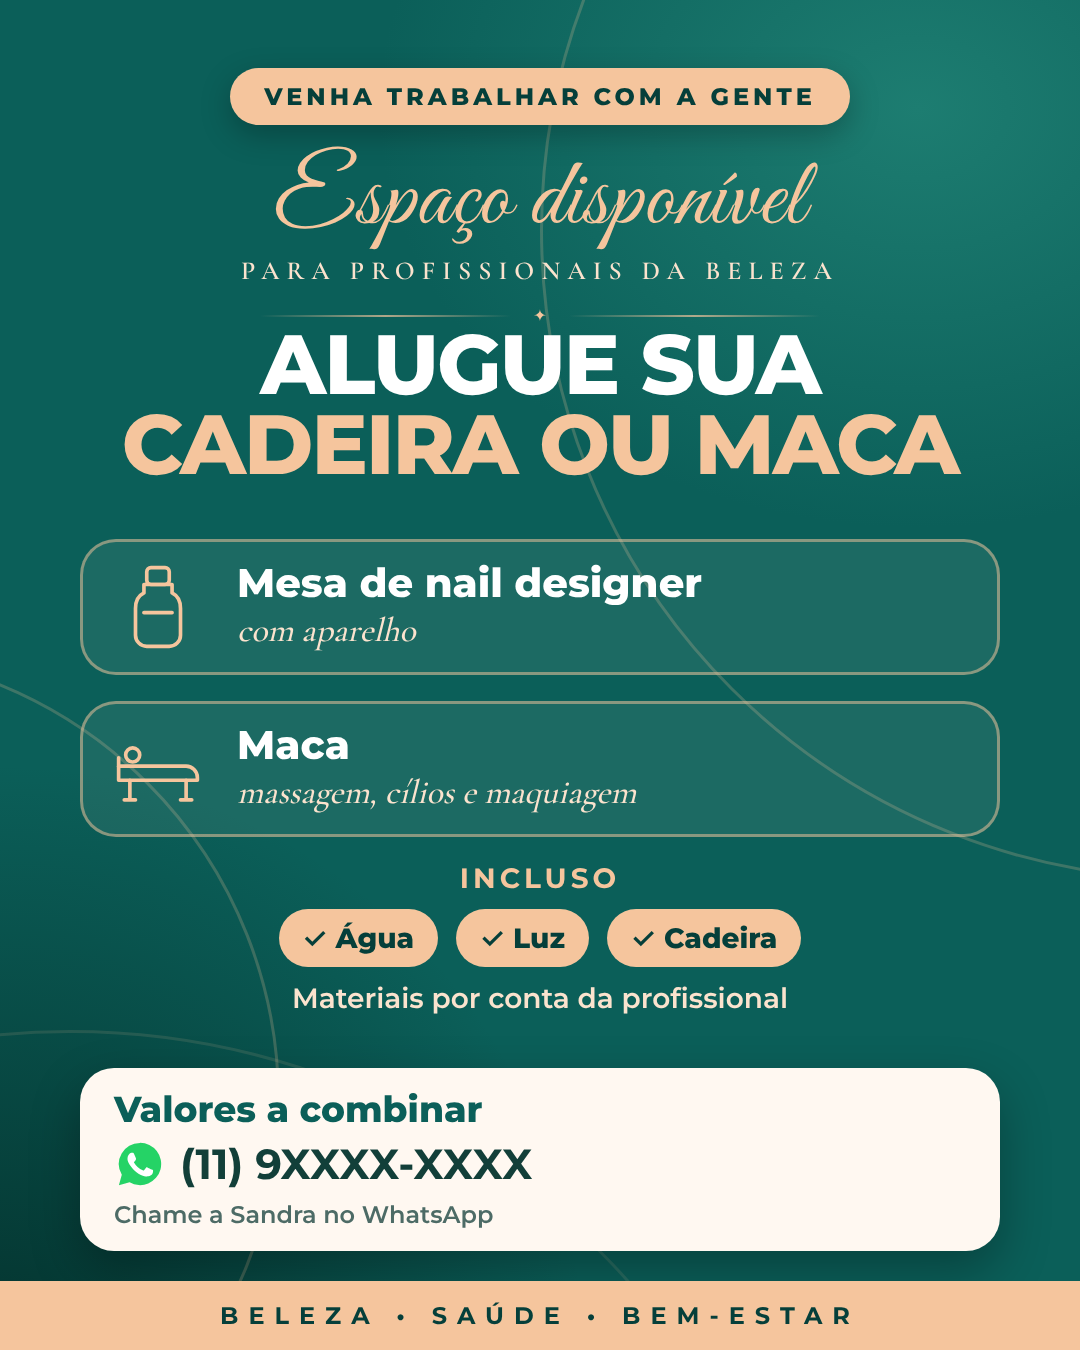
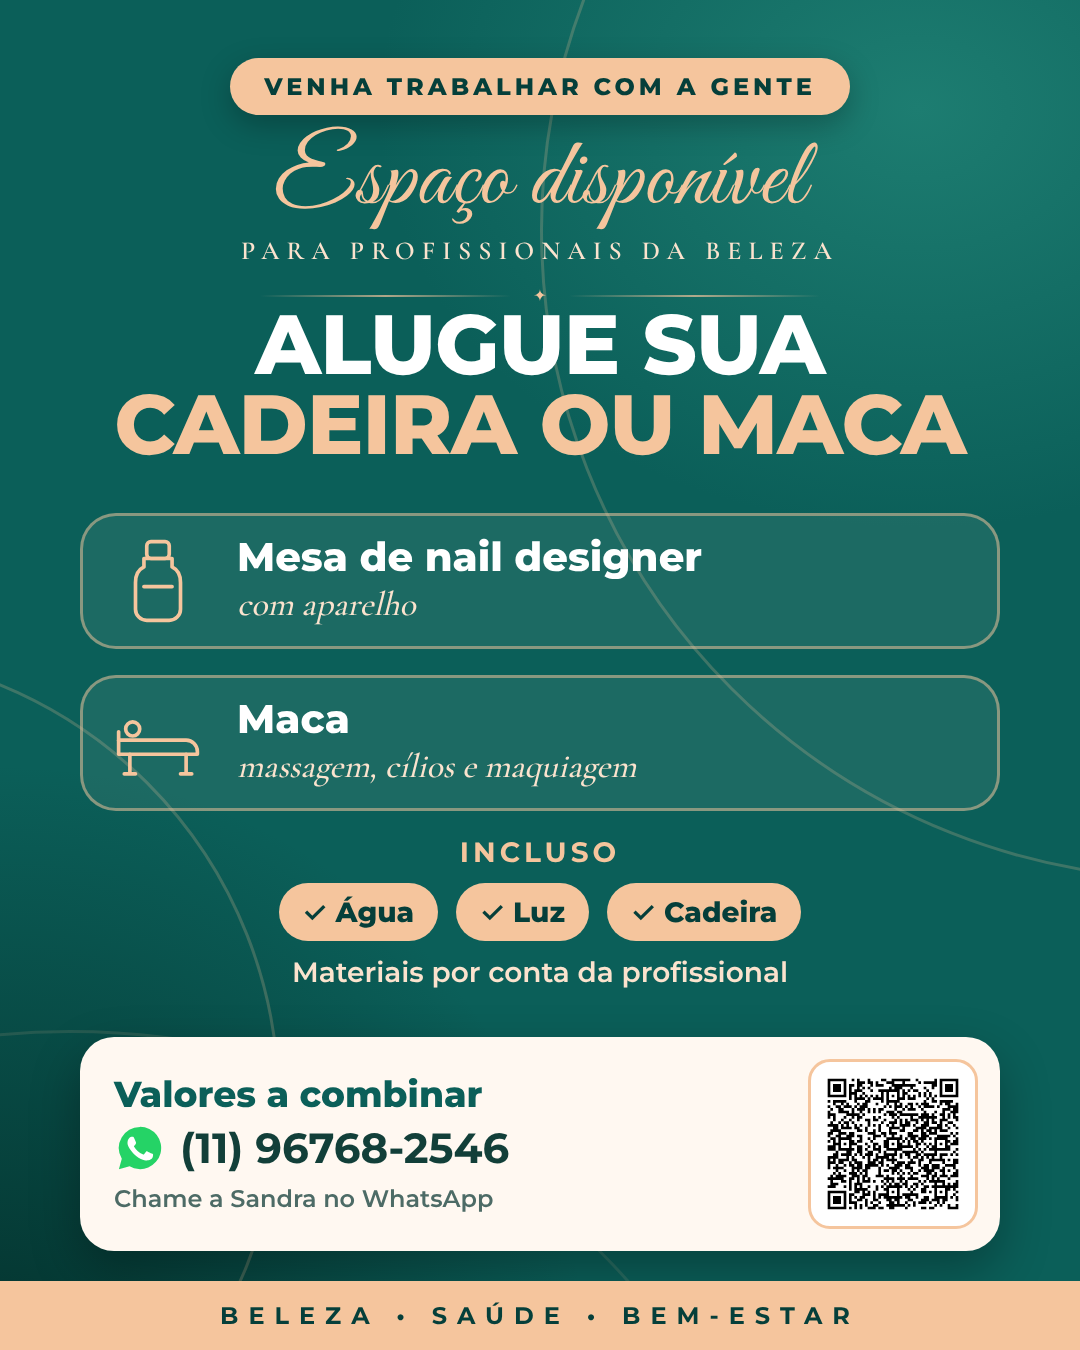
Agenda à prova de erro de horário
Banco (supabase/schema.sql):
- horário que passou ou começa em menos de 1h some do site (fuso de São Paulo)
- reserva atômica, com WhatsApp da cliente e limite de 2 horários por telefone
- tabela protegida: só a Amanda lê nomes e telefones
- dados coerentes (livre nunca guarda dados de cliente)

Painel (admin/):
- ações só valem se o horário ainda estiver como ela viu (não sobrescreve pedido novo)
- atualiza sozinho a cada 30 s e ao voltar para a tela
- mostra há quanto tempo veio o pedido e botão para chamar a cliente no WhatsApp
- data de hoje sempre em horário de Brasília, não no relógio do celular
- só remove horário livre

Site: não depende do relógio do celular; pede o WhatsApp da cliente.
Folder de aluguel com o WhatsApp da Sandra.

Claude-Session: https://claude.ai/code/session_01XzVqx7ahf59UE6agffiRQk

Changed region(s): [[0.0611, 0.0311, 0.9472, 0.9333], [0.0611, 0.4044, 0.0917, 0.4356]]

diff --git a/admin/index.html b/admin/index.html
@@ -146,16 +146,23 @@ input:focus{border-color:var(--teal)}
       .then(function(){$('bLogin').disabled=false})};
   $('bSair').onclick=function(){save(null);rows=[];sel=null;show()};
 
+  function hojeSP(){return new Date().toLocaleDateString('en-CA',{timeZone:'America/Sao_Paulo'})}
+  var ocupado=false,semNet=false;
   function carregar(){
-    var hoje=new Date();hoje=hoje.getFullYear()+'-'+dd(hoje.getMonth()+1)+'-'+dd(hoje.getDate());
-    api('GET','horarios?select=*&data=gte.'+hoje+'&order=data,hora').then(function(j){rows=j||[];say('mApp','');desenhar()})
-      .catch(function(){say('mApp','Não consegui carregar a agenda. Confira a internet e tente de novo.')});
+    return api('GET','horarios?select=*&data=gte.'+hojeSP()+'&order=data,hora').then(function(j){rows=j||[];if(semNet){semNet=false;say('mApp','')}desenhar()})
+      .catch(function(e){if(e!==0){semNet=true;say('mApp','Sem conexão. O que você vê pode estar desatualizado. Confira a internet.')}});
   }
+  function idade(iso){if(!iso)return '';var m=Math.max(0,Math.round((Date.now()-new Date(iso).getTime())/60000));
+    return m<1?'agora':m<60?'há '+m+' min':m<1440?'há '+Math.floor(m/60)+' h':'há '+Math.floor(m/1440)+' d'}
+  function zap(r){return r.telefone?'<a class="btn ghost" style="text-decoration:none" target="_blank" rel="noopener" href="https://wa.me/55'+r.telefone+'">Chamar no WhatsApp</a>':''}
+  // atualiza sozinho: a cada 30 s e quando ela volta para a tela
+  setInterval(function(){if(sess&&!document.hidden&&!ocupado)carregar()},30000);
+  document.addEventListener('visibilitychange',function(){if(sess&&!document.hidden)carregar()});
 
   function desenhar(){
     var ped=rows.filter(function(r){return r.status==='pedido'});
-    var n=$('nPed');n.hidden=!ped.length;n.textContent=ped.length;
-    $('pedidos').innerHTML=ped.length?ped.map(function(r){return '<div class="card pedido" style="margin-bottom:10px"><b>'+esc(r.nome)+'</b><div class="qd">'+esc(r.servico)+'<br>'+dia(r.data)+' às '+hh(r.hora)+'</div>'+
+    var n=$('nPed');n.hidden=!ped.length;n.textContent=ped.length;document.title=(ped.length?'('+ped.length+') ':'')+'Painel da Amanda';
+    $('pedidos').innerHTML=ped.length?ped.map(function(r){return '<div class="card pedido" style="margin-bottom:10px"><b>'+esc(r.nome)+'</b><div class="qd">'+esc(r.servico)+'<br>'+dia(r.data)+' às '+hh(r.hora)+'<br>Pedido '+idade(r.pedido_em)+'</div>'+zap(r)+
       '<div class="row"><button class="btn ok" data-a="confirmar" data-id="'+r.id+'" type="button">Confirmar</button><button class="btn bad" data-a="liberar" data-id="'+r.id+'" type="button">Recusar</button></div></div>'}).join(''):'<p class="vazio">Nenhum pedido por enquanto.</p>';
 
     var por={},ordem=[];rows.forEach(function(r){if(!por[r.data]){por[r.data]=[];ordem.push(r.data)}por[r.data].push(r)});
@@ -168,39 +175,53 @@ input:focus{border-color:var(--teal)}
     var box=$('acoes'),r=rows.filter(function(x){return x.id===sel})[0];
     if(!r){box.hidden=true;return}
     var h='<p>'+dia(r.data)+' às '+hh(r.hora)+'</p>';
-    if(r.status==='pedido')h+='<div>'+esc(r.nome)+' · '+esc(r.servico)+'</div><button class="btn ok" data-a="confirmar" data-id="'+r.id+'" type="button">Confirmar</button><button class="btn bad" data-a="liberar" data-id="'+r.id+'" type="button">Recusar e liberar</button>';
-    if(r.status==='confirmado')h+='<div>'+esc(r.nome)+' · '+esc(r.servico)+'</div><button class="btn bad" data-a="liberar" data-id="'+r.id+'" type="button">Cancelar e liberar horário</button>';
+    if(r.status==='pedido')h+='<div>'+esc(r.nome)+' · '+esc(r.servico)+'</div>'+zap(r)+'<button class="btn ok" data-a="confirmar" data-id="'+r.id+'" type="button">Confirmar</button><button class="btn bad" data-a="liberar" data-id="'+r.id+'" type="button">Recusar e liberar</button>';
+    if(r.status==='confirmado')h+='<div>'+esc(r.nome)+' · '+esc(r.servico)+'</div>'+zap(r)+'<button class="btn bad" data-a="liberar" data-id="'+r.id+'" type="button">Cancelar e liberar horário</button>';
     if(r.status==='livre')h+='<button class="btn ghost" data-a="ocupar" data-id="'+r.id+'" type="button">Marcar como ocupado (marquei por fora)</button>';
-    h+='<button class="btn ghost" data-a="remover" data-id="'+r.id+'" type="button">Remover este horário</button>';
+    if(r.status==='livre')h+='<button class="btn ghost" data-a="remover" data-id="'+r.id+'" type="button">Remover este horário</button>';
+    else h+='<p style="font-weight:500;font-size:14px;color:var(--muted)">Para remover este horário, primeiro cancele e libere.</p>';
     box.innerHTML=h;box.hidden=false;
   }
 
-  function mudar(id,campos){
-    return api('PATCH','horarios?id=eq.'+id,campos,{Prefer:'return=minimal'}).then(carregar).catch(function(e){if(e!==0)say('mApp','Não deu certo. Tente de novo.')});
+  var TXT_MUDOU='Esse horário mudou enquanto você olhava (talvez uma cliente tenha pedido agora). Atualizei a tela, confira e tente de novo.';
+  // Só altera se o horário ainda estiver no estado em que ela viu. Se mudou, não faz nada.
+  function mudar(id,esperado,campos){
+    return api('PATCH','horarios?id=eq.'+id+'&status=in.('+esperado+')',campos,{Prefer:'return=representation'})
+      .then(function(j){if(!j||!j.length)say('mApp',TXT_MUDOU)}).then(carregar)
+      .catch(function(e){if(e!==0){say('mApp','Não deu certo. Confira a internet e tente de novo.');return carregar()}});
+  }
+  function remover(id){
+    return api('DELETE','horarios?id=eq.'+id+'&status=eq.livre',null,{Prefer:'return=representation'})
+      .then(function(j){if(!j||!j.length)say('mApp',TXT_MUDOU)}).then(carregar)
+      .catch(function(e){if(e!==0){say('mApp','Não deu certo. Confira a internet e tente de novo.');return carregar()}});
   }
   document.addEventListener('click',function(e){
-    var b=e.target.closest('button[data-a],button.s');if(!b)return;
+    var b=e.target.closest('button[data-a],button.s');if(!b||ocupado)return;
     var id=b.getAttribute('data-id'),a=b.getAttribute('data-a');
     if(!a){sel=(sel===id?null:id);desenhar();return}
-    b.disabled=true;
-    if(a==='confirmar')mudar(id,{status:'confirmado'});
-    if(a==='liberar'){sel=null;mudar(id,{status:'livre',nome:null,servico:null,pedido_em:null})}
-    if(a==='ocupar')mudar(id,{status:'confirmado',nome:'Marcado por fora',servico:'Manual'});
-    if(a==='remover'){sel=null;api('DELETE','horarios?id=eq.'+id,null,{Prefer:'return=minimal'}).then(carregar).catch(function(e){if(e!==0)say('mApp','Não deu certo. Tente de novo.')})}
+    ocupado=true;[].forEach.call(document.querySelectorAll('button[data-a]'),function(x){x.disabled=true});
+    var fim=function(){ocupado=false};
+    if(a==='confirmar')mudar(id,'pedido',{status:'confirmado'}).then(fim);
+    if(a==='liberar'){sel=null;mudar(id,'pedido,confirmado',{status:'livre',nome:null,servico:null,telefone:null,pedido_em:null}).then(fim)}
+    if(a==='ocupar')mudar(id,'livre',{status:'confirmado',nome:'Marcado por fora',servico:'Manual',pedido_em:new Date().toISOString()}).then(fim);
+    if(a==='remover'){sel=null;remover(id).then(fim)}
   });
 
   // abrir horários
   $('horas').innerHTML=HORAS.map(function(h){return '<button class="chip" type="button" data-h="'+h+'" aria-pressed="'+(!!escolhidas[h])+'">'+hh(h)+'</button>'}).join('');
   $('horas').onclick=function(e){var b=e.target.closest('.chip');if(!b)return;var h=b.getAttribute('data-h');escolhidas[h]=!escolhidas[h];b.setAttribute('aria-pressed',!!escolhidas[h])};
-  var hj=new Date();$('novaData').min=hj.getFullYear()+'-'+dd(hj.getMonth()+1)+'-'+dd(hj.getDate());
+  $('novaData').min=hojeSP();
   $('bAbrir').onclick=function(){
     var d=$('novaData').value,hs=HORAS.filter(function(h){return escolhidas[h]});
     if(!d){say('mApp','Escolha o dia primeiro.');window.scrollTo(0,0);return}
     if(!hs.length){say('mApp','Escolha pelo menos um horário.');return}
     $('bAbrir').disabled=true;
-    api('POST','horarios?on_conflict=data,hora',hs.map(function(h){return {data:d,hora:h}}),{Prefer:'resolution=ignore-duplicates,return=minimal'})
-      .then(function(){say('mApp',dia(d)+' aberto com '+hs.length+' horário'+(hs.length>1?'s':'')+'.',true);return carregar()})
-      .catch(function(e){if(e!==0)say('mApp','Não deu certo. Tente de novo.')})
+    api('POST','horarios?on_conflict=data,hora',hs.map(function(h){return {data:d,hora:h}}),{Prefer:'resolution=ignore-duplicates,return=representation'})
+      .then(function(j){var n=(j||[]).length,f=hs.length-n;
+        if(!n)say('mApp','Nenhum horário novo. Esses horários já estavam abertos ou já passaram.');
+        else say('mApp',dia(d)+': '+n+' horário'+(n>1?'s':'')+' aberto'+(n>1?'s':'')+(f?' ('+f+' já existia'+(f>1?'m':'')+' ou já passou'+(f>1?'ram':'')+')':'')+'.',true);
+        return carregar()})
+      .catch(function(e){if(e!==0)say('mApp','Não consegui abrir. Confira se o dia e os horários ainda não passaram.')})
       .then(function(){$('bAbrir').disabled=false});
   };
 

diff --git a/index.html b/index.html
@@ -155,7 +155,11 @@ footer .links a{font-weight:700;text-decoration:none;color:var(--cream)}
   </div>
   <div class="step">
     <label class="step-t" for="nome"><span class="n">4</span>Seu nome</label>
-    <input type="text" id="nome" autocomplete="given-name" placeholder="Como você se chama?" maxlength="60">
+    <input type="text" id="nome" autocomplete="name" placeholder="Como você se chama?" maxlength="60">
+  </div>
+  <div class="step" id="stTel">
+    <label class="step-t" for="tel"><span class="n">5</span>Seu WhatsApp</label>
+    <input type="text" id="tel" inputmode="tel" autocomplete="tel-national" placeholder="(11) 90000-0000" maxlength="16">
   </div>
 
   <div class="resumo" id="resumo" aria-live="polite"></div>
@@ -224,6 +228,7 @@ footer .links a{font-weight:700;text-decoration:none;color:var(--cream)}
 <script>
 (function(){
   var A=window.AGENDA, C=window.SUPABASE||{}, live=!!(C.url&&C.anonKey);
+  var GO_HTML=document.getElementById('go').innerHTML;
   var S={servico:null,dia:null,hora:null}, slots=[], falhou=false, aviso='';
   var SEM=['Domingo','Segunda','Terça','Quarta','Quinta','Sexta','Sábado'];
   var MES=['jan','fev','mar','abr','mai','jun','jul','ago','set','out','nov','dez'];
@@ -240,7 +245,7 @@ footer .links a{font-weight:700;text-decoration:none;color:var(--cream)}
     return fetch(C.url+'/rest/v1/horarios_publicos?select=id,data,hora,status&order=data,hora',{headers:{apikey:C.anonKey,Authorization:'Bearer '+C.anonKey}})
       .then(function(r){if(!r.ok)throw 0;return r.json()}).then(function(j){slots=j;falhou=false}).catch(function(){falhou=true});
   }
-  function dias(){var m={},out=[];slots.forEach(function(x){if(parse(x.data)<hoje)return;if(!m[x.data]){m[x.data]=[];out.push(x.data)}m[x.data].push(x)});
+  function dias(){var m={},out=[];slots.forEach(function(x){if(!live&&parse(x.data)<hoje)return;if(!m[x.data]){m[x.data]=[];out.push(x.data)}m[x.data].push(x)});
     return out.map(function(d){return {data:d,slots:m[d]}})}
 
   function opt(a,b,pill,on,dis){var el=document.createElement('button');el.type='button';el.className='opt';el.setAttribute('aria-pressed',on?'true':'false');if(dis)el.disabled=true;
@@ -262,7 +267,7 @@ footer .links a{font-weight:700;text-decoration:none;color:var(--cream)}
       if(d)d.slots.forEach(function(q){var el=opt(hh(q.hora),'','',S.hora===q.id,q.status!=='livre');el.onclick=function(){S.hora=q.id;render()};o.appendChild(el)})}
     else o.innerHTML='<p class="empty">Escolha um dia primeiro.</p>';
 
-    var ok=S.servico&&S.dia&&S.hora&&$('nome').value.trim().length>1;
+    var ok=S.servico&&S.dia&&S.hora&&$('nome').value.trim().length>1&&(!live||telOk());
     $('go').disabled=!ok;
     var r=$('resumo'),sl=S.hora&&slots.filter(function(q){return q.id===S.hora})[0];
     if(S.servico&&S.dia&&sl){var sv=A.servicos.filter(function(s){return s.id===S.servico})[0],x=parse(S.dia);
@@ -271,21 +276,33 @@ footer .links a{font-weight:700;text-decoration:none;color:var(--cream)}
     else r.className='resumo';
   }
 
+  function digitos(){var t=$('tel').value.replace(/\D/g,'');if(t.indexOf('55')===0&&(t.length===12||t.length===13))t=t.slice(2);return t}
+  function telOk(){var t=digitos();return t.length===10||t.length===11}
+  $('stTel').hidden=!live;
   $('nome').oninput=function(){aviso='';render()};
+  $('tel').oninput=function(){aviso='';render()};
   $('go').onclick=function(){
     var sv=A.servicos.filter(function(s){return s.id===S.servico})[0],x=parse(S.dia),sl=slots.filter(function(q){return q.id===S.hora})[0];
     var nome=$('nome').value.trim();
     var msg='Olá Amanda! Quero agendar:\n\n• '+sv.nome+'\n• '+SEM[x.getDay()]+', '+curta(S.dia)+' às '+hh(sl.hora)+'\n\nMeu nome é '+nome+'.';
     var abrir=function(){location.href='https://wa.me/'+A.whatsapp+'?text='+encodeURIComponent(msg)};
     if(!live){abrir();return}
-    $('go').disabled=true;
+    $('go').disabled=true;$('go').textContent='Reservando…';
+    var volta=function(){$('go').innerHTML=GO_HTML;render()};
     fetch(C.url+'/rest/v1/rpc/pedir_horario',{method:'POST',headers:{apikey:C.anonKey,Authorization:'Bearer '+C.anonKey,'Content-Type':'application/json'},
-      body:JSON.stringify({p_id:sl.id,p_servico:sv.nome,p_nome:nome})})
+      body:JSON.stringify({p_id:sl.id,p_servico:sv.nome,p_nome:nome,p_telefone:digitos()})})
       .then(function(r){if(!r.ok)throw 0;return r.json()})
-      .then(function(ok){
-        if(ok){abrir();return}
-        S.hora=null;aviso='<b>Esse horário acabou de ser pego.</b><br>Escolha outro, por favor.';return load().then(render)})
-      .catch(function(){aviso='<b>Não consegui reservar agora.</b><br>Toque em “Fale comigo” abaixo e chame a Amanda.';render()});
+      .then(function(res){
+        if(res==='ok'){
+          var url='https://wa.me/'+A.whatsapp+'?text='+encodeURIComponent(msg);
+          $('resumo').innerHTML='<b>Horário reservado!</b><br>Agora envie a mensagem no WhatsApp para a Amanda confirmar.<br><a href="'+url+'" style="color:#F5C59D;font-weight:800">Abrir o WhatsApp</a>';
+          $('resumo').className='resumo on';$('go').innerHTML=GO_HTML;$('go').disabled=true;abrir();return}
+        S.hora=null;
+        aviso=res==='limite'?'<b>Você já tem 2 horários reservados.</b><br>Para marcar mais, fale com a Amanda no WhatsApp.':
+              res==='dados'?'<b>Confira seu nome e WhatsApp.</b><br>Use o número com DDD.':
+              '<b>Esse horário acabou de ser pego.</b><br>Escolha outro, por favor.';
+        return load().then(function(){$('go').innerHTML=GO_HTML;render()})})
+      .catch(function(){aviso='<b>Não consegui reservar agora.</b><br>Toque em “Fale comigo” abaixo e chame a Amanda.';volta()});
   };
   var hi=encodeURIComponent('Olá Amanda! Vim pelo site e queria tirar uma dúvida.');
   [].forEach.call(document.querySelectorAll('.js-wa'),function(a){a.href='https://wa.me/'+A.whatsapp+'?text='+hi});

diff --git a/folders/folder.html b/folders/folder.html
@@ -96,6 +96,9 @@ body.feed [data-v="aluguel"] .huge{font-size:84px!important}
 body.feed [data-v="aluguel"] .pill{font-size:24px!important}
 body.feed [data-v="agenda"] .huge{font-size:84px!important}body.feed .card .d{font-size:96px}
 body.feed .kicker{letter-spacing:4px}
+body:not(.feed) [data-v="aluguel"] .item{padding:22px 40px}
+body:not(.feed) [data-v="aluguel"] .item svg{width:100px;height:100px}
+body:not(.feed) [data-v="aluguel"] .qr{width:190px;height:190px}
 [hidden]{display:none!important}
 </style>
 </head>
@@ -164,14 +167,14 @@ body.feed .kicker{letter-spacing:4px}
 
 <!-- Folder 3: aluguel de cadeira/maca -->
 <main class="page" data-v="aluguel" hidden>
-  <div class="gap-m"></div>
+  <div class="gap-s"></div>
   <span class="pill" style="font-size:32px;letter-spacing:4px">VENHA TRABALHAR COM A GENTE</span>
-  <div class="gap-m"></div>
+  <div class="gap-s"></div>
   <div class="name" style="font-size:124px;white-space:nowrap">Espaço disponível</div>
   <div class="role">para profissionais da beleza</div>
   <div class="sep">✦</div>
   <div class="gap-l hide-feed"></div>
-  <h1 class="huge" style="font-size:104px">Alugue sua<br><em>cadeira ou maca</em></h1>
+  <h1 class="huge" style="font-size:92px;letter-spacing:-1px">Alugue sua<br><em>cadeira ou maca</em></h1>
   <div class="spacer"></div>
   <div class="items">
     <div class="item">
@@ -193,10 +196,10 @@ body.feed .kicker{letter-spacing:4px}
   <div class="cta">
     <div style="flex:1">
       <div class="t1">Valores a combinar</div>
-      <div class="t2"><svg class="wa" viewBox="0 0 32 32"><path fill="#25D366" d="M16 3a13 13 0 0 0-11.2 19.6L3 29l6.6-1.7A13 13 0 1 0 16 3z"/><path fill="#fff" d="M23.2 19.4c-.4-.2-2.3-1.1-2.6-1.3-.4-.1-.6-.2-.9.2l-1.2 1.5c-.2.3-.4.3-.8.1a10.6 10.6 0 0 1-5.3-4.6c-.4-.7.4-.6 1.1-2.1.1-.3 0-.5 0-.7l-1.2-2.8c-.3-.7-.6-.6-.9-.6h-.7c-.3 0-.7.1-1 .5-.4.4-1.4 1.3-1.4 3.2s1.4 3.7 1.6 4c.2.2 2.7 4.2 6.6 5.9 2.5 1 3.4 1.1 4.7.9.8-.1 2.3-.9 2.6-1.9.3-.9.3-1.7.2-1.9-.1-.2-.4-.3-.8-.4z"/></svg><span id="sandra-tel">(11) 9XXXX-XXXX</span></div>
+      <div class="t2"><svg class="wa" viewBox="0 0 32 32"><path fill="#25D366" d="M16 3a13 13 0 0 0-11.2 19.6L3 29l6.6-1.7A13 13 0 1 0 16 3z"/><path fill="#fff" d="M23.2 19.4c-.4-.2-2.3-1.1-2.6-1.3-.4-.1-.6-.2-.9.2l-1.2 1.5c-.2.3-.4.3-.8.1a10.6 10.6 0 0 1-5.3-4.6c-.4-.7.4-.6 1.1-2.1.1-.3 0-.5 0-.7l-1.2-2.8c-.3-.7-.6-.6-.9-.6h-.7c-.3 0-.7.1-1 .5-.4.4-1.4 1.3-1.4 3.2s1.4 3.7 1.6 4c.2.2 2.7 4.2 6.6 5.9 2.5 1 3.4 1.1 4.7.9.8-.1 2.3-.9 2.6-1.9.3-.9.3-1.7.2-1.9-.1-.2-.4-.3-.8-.4z"/></svg><span>(11) 96768-2546</span></div>
       <div class="t3">Chame a Sandra no WhatsApp</div>
     </div>
-    <div class="qr" id="sandra-qr" hidden><img src="../img/qr-sandra.svg" alt=""></div>
+    <div class="qr" id="sandra-qr"><img src="../img/qr-sandra.svg" alt=""></div>
   </div>
   <div class="foot">BELEZA • SAÚDE • BEM-ESTAR</div>
 </main>
@@ -205,7 +208,6 @@ body.feed .kicker{letter-spacing:4px}
 var q=new URLSearchParams(location.search);
 document.querySelector('[data-v="'+(q.get('v')||'agenda')+'"]').hidden=false;
 if(q.get('f')==='feed'){document.body.classList.add('feed');document.documentElement.style.height='1350px';document.body.style.height='1350px'}
-if(q.get('tel')){document.getElementById('sandra-tel').textContent=q.get('tel');document.getElementById('sandra-qr').hidden=false}
 </script>
 </body>
 </html>

diff --git a/README.md b/README.md
@@ -40,4 +40,3 @@ Abra `folders/folder.html` no navegador com:
 
 - `?v=novidade`, `?v=agenda` ou `?v=aluguel`
 - `&f=feed` para o formato 4:5 (sem isso, sai no formato story 9:16)
-- `&tel=(11)%2099999-9999` no folder de aluguel, para colocar o WhatsApp da Sandra
